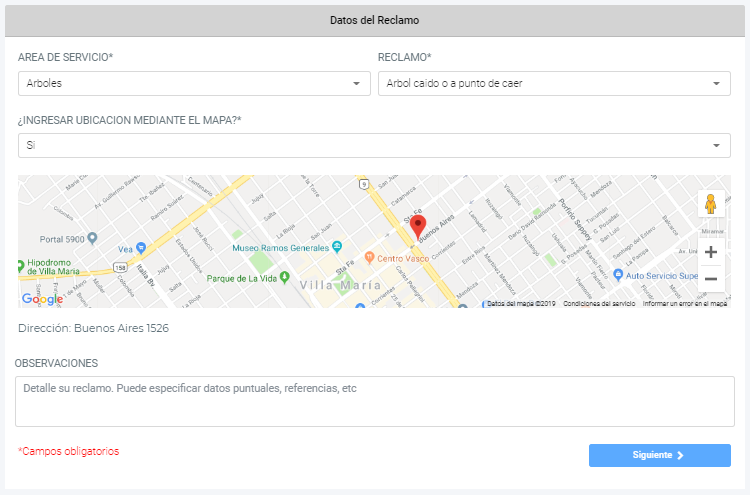
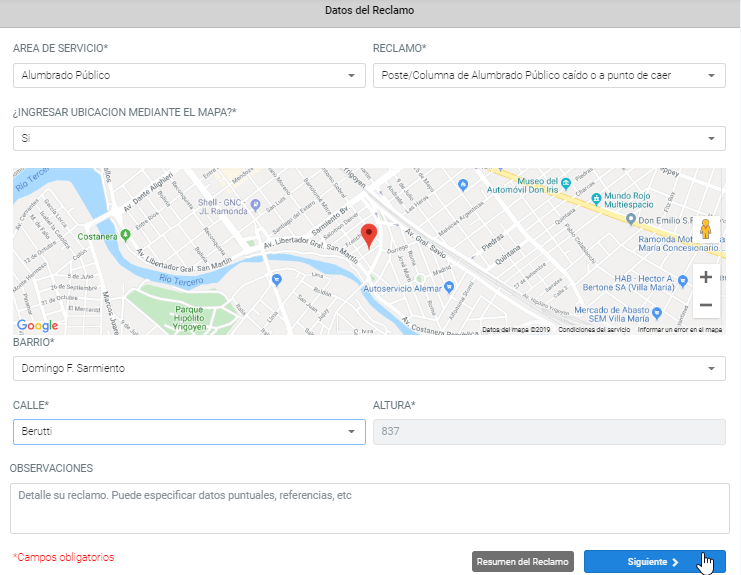
Versión 1.2.5

diff --git a/src/app/pages/ayuda/ayuda.component.html b/src/app/pages/ayuda/ayuda.component.html
@@ -1,12 +1,12 @@
 <div class="container myAnimated myFadeIn">
     <hr>
-    <h3>¿Cómo registrar un reclamo?</h3>
+    <h3>¿Cómo registrar un Reclamo?</h3>
     <div class="text-justify">
         1) Dirígase a la sección <b>Reclamo > Registrar</b> e ingrese los datos solicitados en el orden en que aparecen (area de servicio, reclamo, ubicación, etc).
         <br><br> Note que tiene 2 formas de ingresar la ubicación del reclamo: mediante el mapa de Google o manualmente.
         <ul>
             <li>Mediante el mapa de Google:</li>
-            1. Busque en el mapa la ubicación exacta del lugar donde desea realizar el reclamo.
+            1. Busque en el mapa la ubicación exacta del lugar donde desea realizar el Reclamo.
             <br> 2. Haga click en el marcador (<i class="ti-location-pin"></i>) y arrástrelo a la ubicación que realizó anteriormente.
             <br> 3. Seleccione el Barrio correspondiente y Calle. El sistema automáticamente mostrará la Altura.
         </ul>
@@ -17,226 +17,55 @@
         <br>
         <ul>
             <li>Manualmente:</li>
-            1. Debe seleccionar barrio y calle correspondiente e ingresar la altura en la que se encuentra el reclamo a realizar.
+            1. Debe seleccionar barrio y calle correspondiente e ingresar la altura en la que se encuentra el Reclamo a realizar.
         </ul>
         <br>
         <div align="center">
             <img src="../../../assets/images/myImages/datosReclamo.PNG">
         </div>
-        <br> 2) Una vez ingresados los datos obligatorios (*), presionando el botón "Siguiente" se le mostrará un resumen con los datos del Reclamo:
+        <br> 2) Una vez ingresados los datos obligatorios (*), presionando el botón "Siguiente", el sistema valida que el Reclamo que intenta registrar no halla sido ingresado con anterioridad. En caso de que ya se encuentre registrado, le aparecerá el
+        siguiente mensaje:
+        <br><br>
+        <div align="center">
+            <img src="../../../assets/images/myImages/validarReclamo.png">
+        </div>
+        <br> Caso contrario, si el Reclamo no ha sido ingresado con anterioridad, se le mostrará un resumen con los datos del mismo:
         <br><br>
         <div align="center">
             <img src="../../../assets/images/myImages/resumenReclamo.PNG">
         </div>
-        <br> 3) Antes de enviar el Reclamo, corrobore que los datos ingresados sean correctos, tilde el casillero "Confirmo haber revisado los datos del reclamo" y presione "Enviar". El Reclamo se registrará y aparecerá en pantalla un mensaje con el código
-        del mismo, para su posterior consulta:
+        <br> 3) Antes de enviar el Reclamo, corrobore que los datos ingresados sean correctos, ya que una vez registrado el mismo, sus datos no pueden modificarse. Tilde el casillero "Confirmo haber revisado los datos del reclamo" y presione "Enviar".
         <br><br>
         <div align="center">
             <img src="../../../assets/images/myImages/reclamoRegistrado.PNG">
         </div>
+        <br> El sistema automáticamente envía le envía un correo electrónico con el código del Reclamo para su posterior consulta. Le recomendamos no borre este email para poder seguirlo paso a paso.
         <br><br>
-        <b>*IMPORTANTE: tenga en cuenta siempre corroborar los datos antes de ser enviado, ya que no puede modificarse una vez registrado.</b>
+        <b>*IMPORTANTE: Sólo puede enviarse un Reclamo por día, si intenta registrar más de uno, le aparecerá el siguiente mensaje:</b>
+        <br><br>
+        <div align="center">
+            <img src="../../../assets/images/myImages/reclamoDiario.png">
+        </div>
     </div>
     <hr>
     <h3>¿Cómo consultar un reclamo?</h3>
     <div class="text-justify">
-        Para <b>consultar</b> un reclamo, luego de haber registrado el mismo, se le otorgó un código el cual fue enviado a su casilla de correo para su posterior utilización en la consulta. Una vez que tenga el código a mano, dirígase a la sección
-        <b>Reclamo > Consultar</b>:
+        Para <b>consultar</b> un Reclamo, dirígase a la sección <b>Reclamo > Consultar</b>, e ingrese cualquier dato relacionado al mismo, ya sea código, area de servicio, reclamo, dirección, etc:
         <br><br>
         <div align="center">
             <img src="../../../assets/images/myImages/consultarReclamo.PNG">
         </div>
-        <br> Allí podrá visualizar todos sus reclamos realizados y en caso de optar por uno en particular, ingrese el código donde se lo solicita.
-        <br><br> Presionando el botón en la columna "Ver" de algún reclamo específico, podrá visualizar las actividades llevadas a cabo en el proceso de resolución, empezando desde la generación de la orden de servicio hasta el cierre del reclamo en caso
-        que haya podido resolverse.
+        <br> Presionando el botón en la columna "Ver" de algún Reclamo específico, podrá visualizar las actividades llevadas a cabo en el proceso de resolución, empezando desde la Generación de la Orden de Servicio hasta el cumplimiento del Reclamo en
+        caso que haya podido resolverse.
     </div>
     <hr>
     <h3>Calificación de Reclamo</h3>
     <div class="text-justify">
-        En caso de que su reclamo haya sido resuelto le solicitamos que nos deje una calificacón y no obligatoriamente un comentario, yendo a la sección <b>Reclamo > Consultar</b>, seleccione el reclamo correspondiente en la columna "Ver" y presione el
-        botón "Calificar reclamo":
+        En caso de que su Reclamo haya sido resuelto, usted podrá darle una Calificación y un comentario, yendo a la sección <b>Reclamo > Consultar</b>, seleccione el Reclamo correspondiente en la columna "Ver" y presione el botón "Calificar reclamo":
         <br><br>
         <div align="center">
             <img src="../../../assets/images/myImages/calificarReclamo.PNG">
         </div>
+        <br><br> Esto nos permitirá controlar la eficiencia y eficacia del trabajo realizado por las Áreas de Servicios e ir mejorando poco a poco para cumplir con el compromiso que tenemos con vos.
     </div>
-    <!-- <hr> -->
-    <!-- <h4>Areas de Servicio</h4>
-        <div class="text-justify">
-            Las areas de servicio son las entes encargadas de llevar a cabo las actividades necesarias para la solución de los reclamos. Cada una de estas areas, se encarga de resolver cierto tipo de reclamo. A continuación le mostramos las diversas secciones de
-            cada area de servicio junto con su listado de reclamos correspondiente:
-            <br><br>
-        
-            <mat-expansion-panel (opened)="panelOpenState = true" (closed)="panelOpenState = false">
-                <mat-expansion-panel-header>
-                    <mat-panel-title>
-                        Alcantarillas
-                    </mat-panel-title>
-                </mat-expansion-panel-header>
-                <p>Verificar alcantarilla</p>
-                <p>Solicita alcantarilla</p>
-                <p>Alcantarilla obstruida</p>
-                <p>Desyuye de alcantarilla</p>
-                <p>Reparar tubos de alcantarillado</p>
-                <p>Verificar obstrucción de cuneta</p>
-                <p>Solicita cuneteo alcantarilla</p>
-                <p>Solicita limpieza de cuneta</p>
-                <p>Desmalezar ochava</p>
-            </mat-expansion-panel>
-            <mat-expansion-panel (opened)="panelOpenState = true" (closed)="panelOpenState = false">
-                <mat-expansion-panel-header>
-                    <mat-panel-title>
-                        Alumbrado Público
-                    </mat-panel-title>
-                </mat-expansion-panel-header>
-                <p>Verificar lampara</p>
-                <p>Verificar luces encendidas</p>
-                <p>Verificar luces intermitentes</p>
-                <p>Solicita protector de lampara</p>
-                <p>Verificar farola de alumbrado público</p>
-                <p>Verificar chispazos en cableado de alumbrado</p>
-                <p>Solicita alumbrado publico</p>
-                <p>Poste/Columna de Alumbrado Público caído o a punto de caer</p>
-            </mat-expansion-panel>
-            <mat-expansion-panel (opened)="panelOpenState = true" (closed)="panelOpenState = false">
-                <mat-expansion-panel-header>
-                    <mat-panel-title>
-                        Arboles
-                    </mat-panel-title>
-                </mat-expansion-panel-header>
-                <p>Recortar ramas muy altas con hidro</p>
-                <p>Solicita recorte de ramas bajas</p>
-                <p>Verificar poda sin autorización</p>
-                <p>Retirar arbol caido</p>
-                <p>Arbol caido o a punto de caer</p>
-                <p>Verificar arbol con plagas</p>
-                <p>Fumigar arbol</p>
-                <p>Verificar arbol enfermo</p>
-                <p>Verificar extracción de arbol sin autorizacion</p>
-                <p>Retirar rama y/o tronco</p>
-                <p>Solicitar recorte de raíces</p>
-                <p>Solicita autorización de poda</p>
-                <p>Solicita extracción de arboles</p>
-            </mat-expansion-panel>
-            <mat-expansion-panel (opened)="panelOpenState = true" (closed)="panelOpenState = false">
-                <mat-expansion-panel-header>
-                    <mat-panel-title>
-                        Boca de Tormenta
-                    </mat-panel-title>
-                </mat-expansion-panel-header>
-                <p>Boca de tormenta obstruida</p>
-                <p>Reparar boca de tormenta</p>
-                <p>Boca de tormenta sin rejilla de protección</p>
-                <p>Solicita boca de tormenta</p>
-            </mat-expansion-panel>
-            <mat-expansion-panel (opened)="panelOpenState = true" (closed)="panelOpenState = false">
-                <mat-expansion-panel-header>
-                    <mat-panel-title>
-                        Calles
-                    </mat-panel-title>
-                </mat-expansion-panel-header>
-                <p>Pozo en calle de tierra</p>
-                <p>Hundimiento de calle pavimentada</p>
-                <p>Solicita relleno de calle pavimentada</p>
-                <p>Solicita enarenado</p>
-                <p>Solicita cordón vereda</p>
-                <p>Arreglar cordón vereda</p>
-                <p>Solicita arreglo de bache/s</p>
-                <p>Bacheo</p>
-                <p>Arreglar paño pavimento</p>
-                <p>Arreglar cordón cuneta</p>
-                <p>Solicita vallado</p>
-                <p>Solicita lomo de burro</p>
-                <p>Intimar a retirar basura de vía pública</p>
-                <p>Intimar por obstrucción de vía pública</p>
-                <p>Salida de agua</p>
-                <p>Solicita estacionamiento exclusivo</p>
-                <p>Hundimiento en calle de tierra</p>
-                <p>Verificar parquimetro</p>
-                <p>Solicita arreglo de calle de tierra</p>
-                <p>Hundimiento de calles pavimentadas por cloacas</p>
-                <p>Hundimiento de calles de tierra por cloacas</p>
-                <p>Verificar tapa de cámara de inspección</p>
-                <p>Solicita relleno de calle de tierra</p>
-                <p>Calle de tierra inundada</p>
-                <p>Calle de pavimento inundada</p>
-            </mat-expansion-panel>
-            <mat-expansion-panel (opened)="panelOpenState = true" (closed)="panelOpenState = false">
-                <mat-expansion-panel-header>
-                    <mat-panel-title>
-                        Cunetas
-                    </mat-panel-title>
-                </mat-expansion-panel-header>
-                <p>Solicita desyuye de cuneta</p>
-                <p>Solicita cuneteo</p>
-                <p>Obstrucción de cuneta</p>
-                <p>Hacer cuneteo y alcantarillado</p>
-                <p>Solicita limpieza de cunetas</p>
-            </mat-expansion-panel>
-            <mat-expansion-panel (opened)="panelOpenState = true" (closed)="panelOpenState = false">
-                <mat-expansion-panel-header>
-                    <mat-panel-title>
-                        Espacios Públicos
-                    </mat-panel-title>
-                </mat-expansion-panel-header>
-                <p>Micro-basural</p>
-                <p>Solicita limpieza de espacio público</p>
-                <p>Solicita seguridad en espacio público</p>
-                <p>Solicita limpieza de fuente en espacio público</p>
-                <p>Solicita mantenimiento de espacios públicos</p>
-                <p>Arreglo y/o mantenimiento de juegos infantiles en espacio público</p>
-            </mat-expansion-panel>
-            <mat-expansion-panel (opened)="panelOpenState = true" (closed)="panelOpenState = false">
-                <mat-expansion-panel-header>
-                    <mat-panel-title>
-                        Nomencladores
-                    </mat-panel-title>
-                </mat-expansion-panel-header>
-                <p>Solicita nomenclador</p>
-                <p>Nomenclador caído o a punto de caer</p>
-                <p>Nomenclador ilegible</p>
-                <p>Verificar nomenclador</p>
-            </mat-expansion-panel>
-            <mat-expansion-panel (opened)="panelOpenState = true" (closed)="panelOpenState = false">
-                <mat-expansion-panel-header>
-                    <mat-panel-title>
-                        Semáforos
-                    </mat-panel-title>
-                </mat-expansion-panel-header>
-                <p>Solicita instalación de semáforo</p>
-                <p>Semáforo no funciona</p>
-                <p>Verificar luz de paso para peaton</p>
-                <p>Verificar columna de semáforo caída o a punto de caer</p>
-                <p>Verificar lampara de semáforo</p>
-                <p>Mantenimiento de semáforos</p>
-            </mat-expansion-panel>
-            <mat-expansion-panel (opened)="panelOpenState = true" (closed)="panelOpenState = false">
-                <mat-expansion-panel-header>
-                    <mat-panel-title>
-                        Señaletica
-                    </mat-panel-title>
-                </mat-expansion-panel-header>
-                <p>Marcar con pintura ochavas</p>
-                <p>Marcar con pintura senda peatonal</p>
-                <p>Marcar con pintura estacionamiento</p>
-                <p>Verificar carteleria indicativa de señalización vial</p>
-                <p>Colocar carteleria de estacionamiento</p>
-                <p>Colocar reductor de velocidad</p>
-                <p>Verificar cartelería vial caída o a punto de caer</p>
-            </mat-expansion-panel>
-            <mat-expansion-panel (opened)="panelOpenState = true" (closed)="panelOpenState = false">
-                <mat-expansion-panel-header>
-                    <mat-panel-title>
-                        Veredas
-                    </mat-panel-title>
-                </mat-expansion-panel-header>
-                <p>Intimar a desmalezar vereda</p>
-                <p>Vereda en malas condiciones</p>
-                <p>Solicita instalación de rampa para discapacitados</p>
-                <p>Intimar a colocar canasto contenedor de residuos</p>
-                <p>Intimar por obstrucción de vereda</p>
-                <p>Intimar a retirar escombros y/o materiales de construcción</p>
-                <p>Intimar a retirar basura y/o áridos en general</p>
-            </mat-expansion-panel>
-        </div> -->
 </div>

diff --git a/src/app/pages/generar-reclamo/generar-reclamo.component.ts b/src/app/pages/generar-reclamo/generar-reclamo.component.ts
@@ -305,10 +305,11 @@ export class GenerarReclamoComponent implements OnInit {
     if (this.mapVisibility === 'hidden') {
       this.cargaDDL();
       this.resetSelects();
-
+      this.f.altura.enable();
     } else {
       this.getPlacesAutocomplete();
       this.resetSelects();
+      this.f.altura.disable();
     }
   }
 

diff --git a/src/app/pages/generar-reclamo/generar-reclamo.component.css b/src/app/pages/generar-reclamo/generar-reclamo.component.css
@@ -8,7 +8,7 @@
 }
 
 agm-map {
-    height: 350px;
+    height: 250px;
 }
 
 input:disabled {
